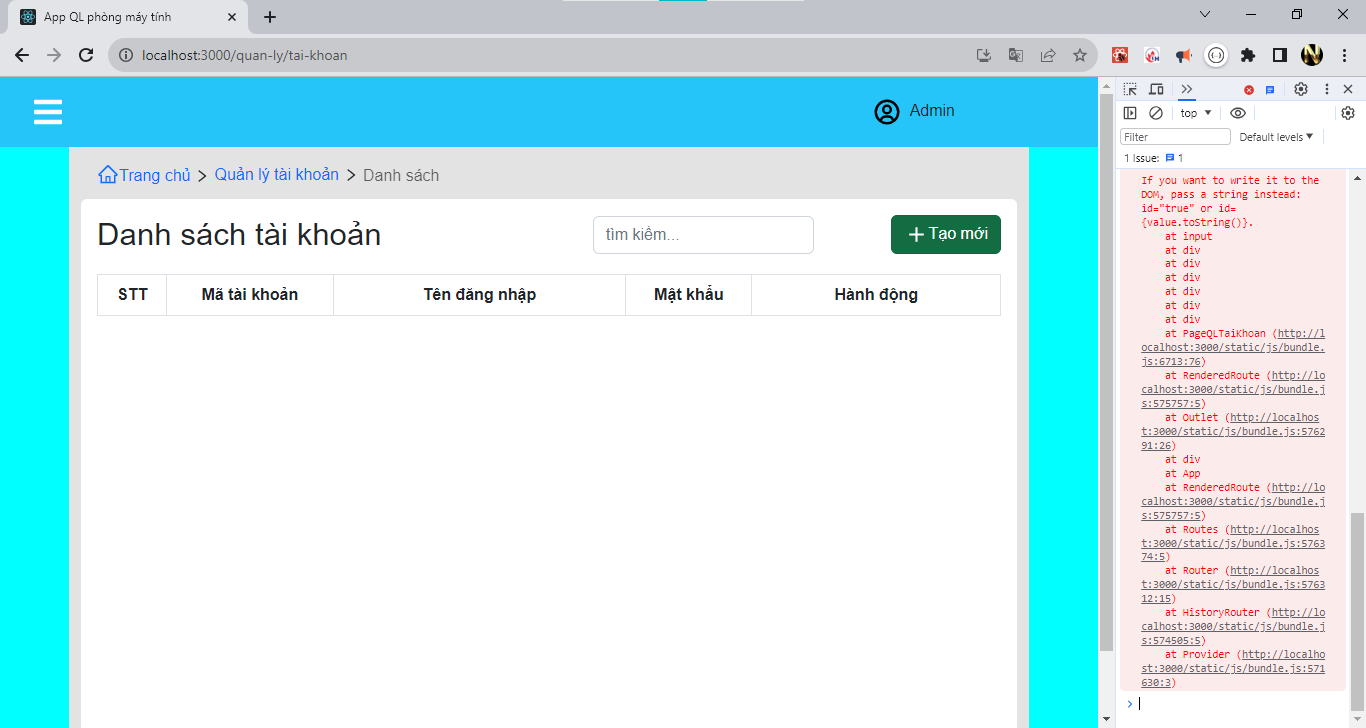
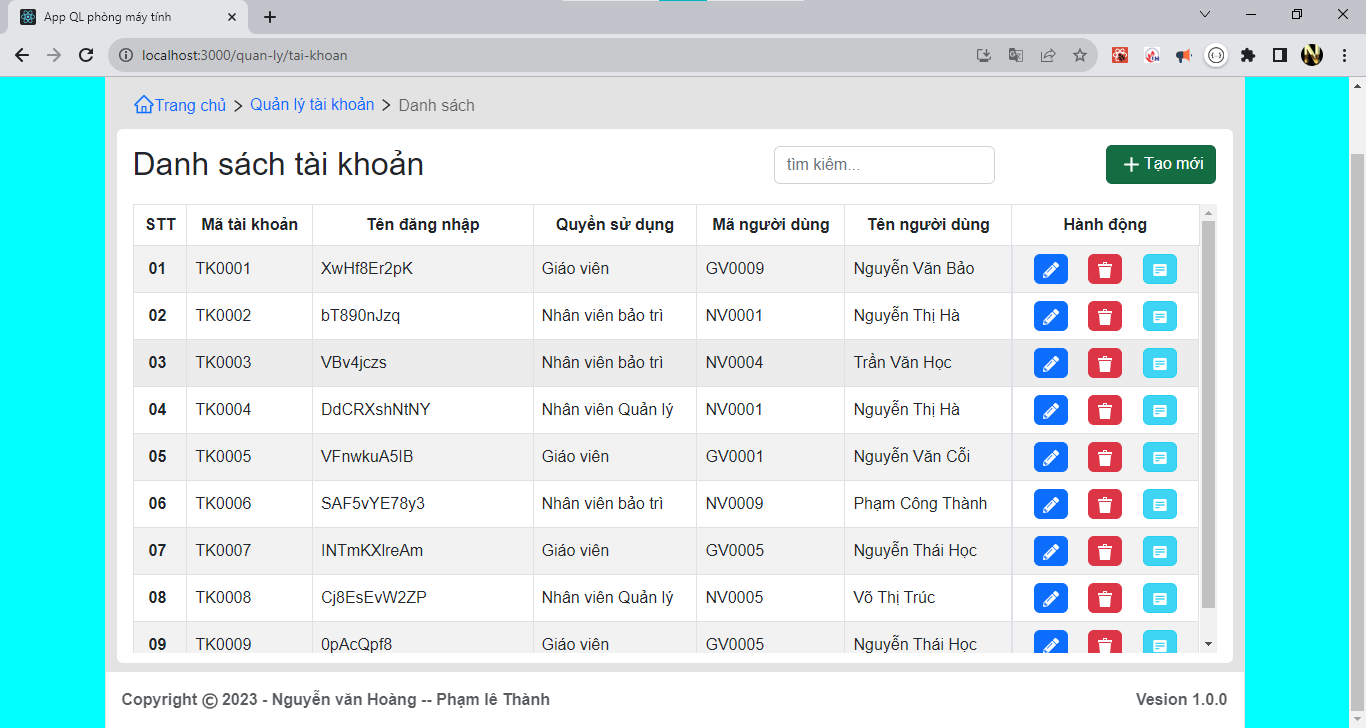
QL TaiKhoan: add DataLocal, add select quyen

diff --git a/src/pages/PageQuanLy/PageQLTaiKhoan.jsx b/src/pages/PageQuanLy/PageQLTaiKhoan.jsx
@@ -9,16 +9,17 @@ import Footer from "../../components/common/Footer/Footer";
 import NavTab from "../../components/common/NavTab/NavTab";
 import { NavLink } from "react-router-dom";
 import { useDispatch, useSelector } from "react-redux";
+import { getAllTaiKhoanApi } from "../../redux/reducers/taiKhoanReducer";
 
 
 export default function PageQLTaiKhoan() {
 
   const dispatch = useDispatch();
 
-  // const { arrTaiKhoanSearch } = useSelector((state) => state.taiKhoanReducer);
+  const { arrTaiKhoanSearch } = useSelector((state) => state.taiKhoanReducer);
 
   useEffect(() => {
-      // dispatch(getAllTaiKhoanApi);
+      dispatch(getAllTaiKhoanApi);
   }, []);
 
   //handle
@@ -28,56 +29,60 @@ export default function PageQLTaiKhoan() {
   //render
   const renderDataTaiKhoan = () => {
 
-    // return arrTaiKhoanSearch?.map((item, index) => {
-    //   return (
-    //     <tr key={index}>
-    //       <td scope="row" style={{ fontWeight: 600, padding: "0 15px" }}>
-    //         {index < 9 ? `0${index + 1}` : index + 1}
-    //       </td>
-    //       <td>{item?.idCode}</td>
-    //       <td>{item.name}</td>
+    return arrTaiKhoanSearch?.map((item, index) => {
 
-    //       <td style={{ display: "flex", justifyContent: "space-evenly" }}>
-    //         <NavLink
-    //           // to={"/quan-ly/tai-khoan/update"}
-    //           onClick={() => {
-    //             alert(`Update -- ${item.id} -- dang cập nhật!`);
-    //             // co the truyển data len redux từ đây rồi sang trang kia lấy về sau
-    //           }}
-    //         >
-    //           <button
-    //             type="button"
-    //             className="btn btn-primary mx-2 px-2"
-    //             style={{ padding: "2px" }}
-    //           >
-    //             <FaPencilAlt color="white" size={16} />
-    //           </button>
-    //         </NavLink>
-    //         <button
-    //           onClick={() => {
-    //             alert(`Del -- ${item.id} -- dang cập nhật!`);
-    //           }}
-    //           type="button"
-    //           className="btn btn-danger mx-2 px-2"
-    //           style={{ padding: "2px" }}
-    //         >
-    //           <ImBin2 color="white" size={16} />
-    //         </button>
-    //         <NavLink
-    //           // to={`../quan-ly/phong`}
-    //           onClick={() => {
-    //             alert(`Chi tiết -- ${item.id} -- dang cập nhật!`);
-    //           }}
-    //           type="button"
-    //           className="btn btn-info mx-2 px-2"
-    //           style={{ padding: "2px" }}
-    //         >
-    //           <BiSolidDetail color="white" size={16} />
-    //         </NavLink>
-    //       </td>
-    //     </tr>
-    //   );
-    // });
+      return (
+        <tr key={index}>
+          <td scope="row" style={{ fontWeight: 600, padding: "0 15px" }}>
+            {index < 9 ? `0${index + 1}` : index + 1}
+          </td>
+          <td>{item?.idCode}</td>
+          <td>{item.userName}</td>
+          <td>{item.quyen.mota}</td>
+          <td>{item.mota.idCode}</td>
+          <td>{item.mota.name}</td>
+
+          <td style={{ display: "flex", justifyContent: "space-evenly" }}>
+            <NavLink
+              // to={"/quan-ly/tai-khoan/update"}
+              onClick={() => {
+                alert(`Update -- ${item.id} -- dang cập nhật!`);
+                // co the truyển data len redux từ đây rồi sang trang kia lấy về sau
+              }}
+            >
+              <button
+                type="button"
+                className="btn btn-primary mx-2 px-2"
+                style={{ padding: "2px" }}
+              >
+                <FaPencilAlt color="white" size={16} />
+              </button>
+            </NavLink>
+            <button
+              onClick={() => {
+                alert(`Del -- ${item.id} -- dang cập nhật!`);
+              }}
+              type="button"
+              className="btn btn-danger mx-2 px-2"
+              style={{ padding: "2px" }}
+            >
+              <ImBin2 color="white" size={16} />
+            </button>
+            <NavLink
+              // to={`../quan-ly/phong`}
+              onClick={() => {
+                alert(`Chi tiết -- ${item.id} -- dang cập nhật!`);
+              }}
+              type="button"
+              className="btn btn-info mx-2 px-2"
+              style={{ padding: "2px" }}
+            >
+              <BiSolidDetail color="white" size={16} />
+            </NavLink>
+          </td>
+        </tr>
+      );
+    });
   };
   // Mảng quản lý data navtab
   let arrLinkNavTab = [
@@ -149,7 +154,9 @@ export default function PageQLTaiKhoan() {
                     <th>STT</th>
                     <th style={{ minWidth: "90px" }}>Mã tài khoản</th>
                     <th style={{ minWidth: "200px" }}>Tên đăng nhập</th>
-                    <th style={{ minWidth: "80px" }}>Mật khẩu</th>
+                    <th style={{ minWidth: "100px" }}>Quyền sử dụng</th>
+                    <th style={{ minWidth: "100px" }}>Mã người dùng</th>
+                    <th style={{ minWidth: "110px" }}>Tên người dùng</th>
                     <th style={{ minWidth: "170px" }}>Hành động</th>
                   </tr>
                 </thead>

diff --git a/src/redux/reducers/taiKhoanReducer.jsx b/src/redux/reducers/taiKhoanReducer.jsx
@@ -1,0 +1,73 @@
+//rxslice
+
+import { createSlice } from "@reduxjs/toolkit";
+import { formatNameByHocVi, http } from "../../util/config";
+import Database from "../../util/database/Database";
+
+
+// function
+const dataSearch = (arrData, valSearch) => {
+    let search = valSearch.toLowerCase();
+
+    let arrUpdate = arrData.filter(item => {
+        let ngaySinh = new Date(item.ngaySinh);
+        return (
+        item.idCode.toLowerCase().includes(search) ||
+        (formatNameByHocVi(item) + '').toLowerCase().includes(search) ||
+        (ngaySinh.getYear()+"").toLowerCase().includes(search) ||
+        item.sdt.toLowerCase().includes(search) ||
+        item.hocVi.toLowerCase().includes(search) ||
+        item.tenKhoa.toLowerCase().includes(search) ||
+        item.chucVu.toLowerCase().includes(search) ||
+        item.email.toLowerCase().includes(search) 
+        )
+    })
+
+    return [...arrUpdate];
+    
+}
+
+const initialState = {
+  arrTaiKhoan: [],
+  arrTaiKhoanSearch: [],
+  detailTaiKhoan: {},
+  valueSearch: "",
+};
+
+const taiKhoanReducer = createSlice({
+  name: "taiKhoanReducer",
+  initialState,
+  reducers: {
+    setArrTaiKhoanAction: (state, action) => {
+      state.arrTaiKhoan = action.payload;
+      state.arrTaiKhoanSearch = action.payload;
+    },
+    setValueSearchTaiKhoan: (state, action) =>{
+        state.valueSearch = action.payload
+
+        let{arrTaiKhoan} = state;
+        state.arrTaiKhoanSearch = dataSearch(arrTaiKhoan, action.payload)
+    }
+  },
+});
+// exp nay de sử dụng theo cách 2
+export const {
+  setArrTaiKhoanAction,
+  setValueSearchTaiKhoan,
+ } = taiKhoanReducer.actions;
+export default taiKhoanReducer.reducer;
+
+// -------------- Call API ---------------
+
+export const getAllTaiKhoanApi = async (dispatch) => {
+  try {
+    // const result = await http.get("/TaiKhoan...");
+    // dispatch(setArrTaiKhoanAction(result.data.content));
+    dispatch(setArrTaiKhoanAction(Database.dataTaiKhoan));
+  } catch (error) {
+    console.log(
+      "🚀 ~ file: taiKhoanReducer.jsx:38 ~ getAllTaiKhoanApi ~ error:",
+      error
+    );
+  }
+};

diff --git a/src/redux/ConfigRedux.js b/src/redux/ConfigRedux.js
@@ -5,9 +5,11 @@ import thietBiReducer from "./reducers/thietBiReducer";
 import nhanVienReducer from "./reducers/nhanVienReducer";
 import khoaReducer from "./reducers/khoaReducer";
 import giaoVienReducer from "./reducers/giaoVienReducer";
+import taiKhoanReducer from "./reducers/taiKhoanReducer";
 
 export const store = configureStore({
     reducer: {
+      taiKhoanReducer:taiKhoanReducer,
       giaoVienReducer:giaoVienReducer,
       khoaReducer:khoaReducer,
       nhanVienReducer:nhanVienReducer,
